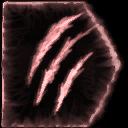
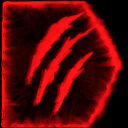
Brighter blood-red Captain flag; punkassbitches lines up every Chieftain look
Claude-Session: https://claude.ai/code/session_01Ja8vbkayn83DPTjJrhXLXZ

diff --git a/docs/PACK_README.md b/docs/PACK_README.md
@@ -105,7 +105,7 @@ UZDoom resolves every `#include` to the **last-loaded** file with that path.
 
 * **Place in maps:** use DoomEdNums **30200–30281** (table below), or the `HCE_Random*` spawners for a random variant of a character.
 * **Summon:** e.g. `summon HCE_EliteMajorPlasmaRifle`.
-* **Spawn everything:** the console command `punkassbitches` spawns one of every enemy class that's loaded (every pack and add-on), side by side in lines in front of you and facing you: 640 units of enemies per line, a line every 128 units. They don't patrol or walk to squad stations while idle, so they hold their place in the line until they see something to fight (flyers still hover). Spots blocked by walls are retried further ahead, then behind you, then anywhere free within 1024 units. Marines come out as allies. It's a console alias (`KEYCONF`) for `netevent hce_spawnall`, so it works in multiplayer too.
+* **Spawn everything:** the console command `punkassbitches` spawns one of every enemy class that's loaded (every pack and add-on), side by side in lines in front of you and facing you: 640 units of enemies per line, a line every 128 units. They don't patrol or walk to squad stations while idle, so they hold their place in the line until they see something to fight (flyers still hover). Spots blocked by walls are retried further ahead, then behind you, then anywhere free within 1024 units. Marines come out as allies. A class with several looks stands in the line once per look, so all three Brute Chieftains (Tartarus's look and both kit sets) appear. It's a console alias (`KEYCONF`) for `netevent hce_spawnall`, so it works in multiplayer too.
 * **Spawn every Marine:** `leatherneck` does the same with only the Marines: every Marine and Armored Marine class (each gun, both ranks) and Sergeants Johnson and Stacker, as allies, in the same lines. It's an alias for `netevent hce_spawnmarines`.
 * **Doom monsters are replaced automatically.** See the next section for what replaces what. To keep Doom's monsters, set `hce_keepdoommonsters 1`.
 
@@ -545,7 +545,7 @@ uzdoom -file HDE_LocalDEV.pk3 HCE_EnemyAPI_LocalDEV.pk3 HaloCE_Core.pk3 HaloCE_C
 |---|---|
 | `HCE_Drinol` | Map-placeable only (DoomEdNum 30400); it no longer replaces any Doom monster. Digsite's war beast (model, 76 animations and stats from its tags). Melee charger that swats and pounces with its `charging_jump`. In Halo it stands about 160 map units tall, so it is shrunk to 62% (99 tall, radius 34) to fit Doom corridors; health 320. Uses the new Drinol sounds from the voice pack: alert, melee, grave injury, death, extreme death, and sonic roar on the boss's charge. |
 | `HCE_BossCyberdemonDrinol` | **Boss: replaces every Cyberdemon** while the add-on is loaded. A bigger Drinol (78% scale, 110 tall, radius 40, health 1800) with three attacks. Its swats (~65) are slower than the small Drinol's. Its **charge** is a 22-speed stampede that steers a few degrees per tic, so you can side-step it; a hit does ~55 and bowls you over, and running into a wall staggers it. When it lands from a pounce it **slams** out a 260-unit shockwave that hurts and knocks back its enemies but spares its allies; jumping avoids it. It maps back to `Cyberdemon` (`CheckReplacee`), so boss-death map specials still fire. |
-| `HCE_Brute{Minor,Major,Captain,HonorGuard,Chieftain}…` | **Halo 2's Brutes**, ripped from MCC's `08b_deltacontrol.map` (voices from `08a_deltacliffs.map`): one 48-bone model with every rank's armour, 73 animations (including Tartarus's gravity-hammer stance), real textures, both voices (bloodthirsty and cruel) and their footsteps, thumps and body falls.<br>• **Ranks and loadouts** (looks from Halo 2's model variants, health from the rank tags; all hold their own guns in the rifle stance; a human gun they pick up goes in the rifle stance or, for the GPMG and flamethrower, Halo 2's Brute Shot stance):<br>&nbsp;&nbsp;– **Minor**: 175 health, olive fur, light armour (blue Halo 3 pieces, Halo 2's own helmet and shoulder plates, light King Hit pieces, sometimes bare-headed). Carries the **CE plasma rifle** (`HCE_BruteMinorPlasmaRifle`) or the **CE assault rifle** (`HCE_BruteMinorAssaultRifle`).<br>&nbsp;&nbsp;– **Major**: 150 health, reddish fur, medium armour (red Halo 3 pieces, King Hit crested and enclosed helmets; one in five wears the Halo 3 jump-pack suit). Carries the **Spiker** (`HCE_BruteMajorSpiker`), which fires HDE's own spikes in automatic bursts and drops HDE's Spiker, or the **CE shotgun** (`HCE_BruteMajorShotgun`), 15 pellets a shot.<br>&nbsp;&nbsp;– **Captain**: 200 health, grey fur, the flag pack with Halo 2's **hologram flag** flying from it (`brute_captain_flag.py`: the captain's claw-marked pennant from the cloth tag, in its shader's red, drawn bright and additive with a shimmer, rolling scan lines and a flicker; it moves with the body and stays on the corpse), and heavy armour (gold Halo 3 pieces, King Hit bighorn, heavy and chain-mail helmets, heavy chest plates and leg armour). Carries the CE plasma rifle, the CE shotgun or the **Plasma Caster** (`HCE_BruteCaptainPlasmaCaster`, 30453): HaloDoom Evolved's own (Halo Infinite's), reinterpreted as a low-poly Halo CE Covenant gun in flat colours (a muted dark purple housing and front pod, a dark gunmetal receiver, grip, stock and drum, a silver cone in the pod, cyan lights and a red Banished glyph), lobbing HDE's Plasma Caster shots with a charged three-shot cluster, and dropping HDE's Plasma Caster.<br>&nbsp;&nbsp;– **Honor Guard**: 150 health (Halo 2's Honor Guard inherits the Major's stats), the red ceremonial armour. Carries the CE plasma rifle or the CE assault rifle.<br>&nbsp;&nbsp;Each gun is the real model in the Brute's hand: the CE weapons and the Spiker (a community CE port of Halo 3's). Each drops its HDE pickup.<br>• **Brute Chieftain** (`HCE_BruteChieftainGravityHammer`), a custom rank:<br>&nbsp;&nbsp;– **Look:** half of them wear Tartarus's crested white mohawk and helmet, his grey fur and gold armour, and the elite-skull trophy pauldron. The rest wear one of two kit sets: the Halo 3 Chieftain suit (bronze) or the orange-trimmed King Hit chieftain helmet, leg and bracer set.<br>&nbsp;&nbsp;– **Weapon and animations:** Halo 2's gravity hammer, held two-handed with Tartarus's own hammer animations (idles, moves, three swings, two side smashes, leap, berserk hammer run and swings).<br>&nbsp;&nbsp;– **Stats:** 350 health and a 150-point shield (Tartarus's 1000-point overshield, cut down so it can be broken). It is melee only, with no grenades.<br>&nbsp;&nbsp;– **Attacks:** it leaps at targets 150–400 units away at Tartarus's 50% leap chance. Every hammer swing (about 70) and every leap landing sets off a **gravity shockwave**: HDE's hammer blast effect, 10–35 damage within 150 units, knocking things back and sparing other Covenant. It keeps the hammer when berserk and drops HDE's gravity hammer when killed.<br>• **Combat:** strafing, dives and evades, plasma grenades (10% a second, 3–20 unit range, 6 s apart, carrying 1–2, all from the tag), heavy melee (about 35), cheer, taunt and point animations.<br>• **Berserk:** when badly hurt, or when its pack is wiped out (the last Brute nearby always goes, others 35% of the time), it roars and thumps its chest, **throws its gun away** (the pickup lands nearby), then charges on all fours with five swings and two tackles.<br>• **Armour kit:** every Minor, Major and Captain rolls its own armour when it spawns, one piece (or nothing) per slot: helmet, chest, shoulders, arms, legs and waist. The pieces come from the h2_brute armour set: the King Hit pieces (four material tiers), Halo 3-style pieces tinted per rank, and Halo 2's own helmet, shoulder plates and bandolier. 48 pieces in all, each drawn as a model attachment that moves with the Brute's bones.<br>• **Helmets:** a headshot knocks a Minor's, Major's or Captain's helmet off, whichever helmet it wears, and it bounces away as debris. A Brute that spawned bare-headed can be headshot from the first hit. Honor Guard and Chieftain helmets stay on.<br>Scaled to 115%, so a Brute towers a head and more over an Elite (its rifle idle is 0.90 world units at full size against the Elite's 0.80), and moves a little faster to match its stride; collision 76 tall, radius 30, so they still fit Doom doors. DoomEdNums 30422–30430, `HCE_RandomBrute` 30431, the Plasma Caster Captain 30453. |
+| `HCE_Brute{Minor,Major,Captain,HonorGuard,Chieftain}…` | **Halo 2's Brutes**, ripped from MCC's `08b_deltacontrol.map` (voices from `08a_deltacliffs.map`): one 48-bone model with every rank's armour, 73 animations (including Tartarus's gravity-hammer stance), real textures, both voices (bloodthirsty and cruel) and their footsteps, thumps and body falls.<br>• **Ranks and loadouts** (looks from Halo 2's model variants, health from the rank tags; all hold their own guns in the rifle stance; a human gun they pick up goes in the rifle stance or, for the GPMG and flamethrower, Halo 2's Brute Shot stance):<br>&nbsp;&nbsp;– **Minor**: 175 health, olive fur, light armour (blue Halo 3 pieces, Halo 2's own helmet and shoulder plates, light King Hit pieces, sometimes bare-headed). Carries the **CE plasma rifle** (`HCE_BruteMinorPlasmaRifle`) or the **CE assault rifle** (`HCE_BruteMinorAssaultRifle`).<br>&nbsp;&nbsp;– **Major**: 150 health, reddish fur, medium armour (red Halo 3 pieces, King Hit crested and enclosed helmets; one in five wears the Halo 3 jump-pack suit). Carries the **Spiker** (`HCE_BruteMajorSpiker`), which fires HDE's own spikes in automatic bursts and drops HDE's Spiker, or the **CE shotgun** (`HCE_BruteMajorShotgun`), 15 pellets a shot.<br>&nbsp;&nbsp;– **Captain**: 200 health, grey fur, the flag pack with Halo 2's **hologram flag** flying from it (`brute_captain_flag.py`: the captain's claw-marked pennant from the cloth tag, in a bright blood red, drawn bright and additive with a shimmer, rolling scan lines and a flicker; it moves with the body and stays on the corpse), and heavy armour (gold Halo 3 pieces, King Hit bighorn, heavy and chain-mail helmets, heavy chest plates and leg armour). Carries the CE plasma rifle, the CE shotgun or the **Plasma Caster** (`HCE_BruteCaptainPlasmaCaster`, 30453): HaloDoom Evolved's own (Halo Infinite's), reinterpreted as a low-poly Halo CE Covenant gun in flat colours (a muted dark purple housing and front pod, a dark gunmetal receiver, grip, stock and drum, a silver cone in the pod, cyan lights and a red Banished glyph), lobbing HDE's Plasma Caster shots with a charged three-shot cluster, and dropping HDE's Plasma Caster.<br>&nbsp;&nbsp;– **Honor Guard**: 150 health (Halo 2's Honor Guard inherits the Major's stats), the red ceremonial armour. Carries the CE plasma rifle or the CE assault rifle.<br>&nbsp;&nbsp;Each gun is the real model in the Brute's hand: the CE weapons and the Spiker (a community CE port of Halo 3's). Each drops its HDE pickup.<br>• **Brute Chieftain** (`HCE_BruteChieftainGravityHammer`), a custom rank:<br>&nbsp;&nbsp;– **Look:** half of them wear Tartarus's crested white mohawk and helmet, his grey fur and gold armour, and the elite-skull trophy pauldron. The rest wear one of two kit sets: the Halo 3 Chieftain suit (bronze) or the orange-trimmed King Hit chieftain helmet, leg and bracer set.<br>&nbsp;&nbsp;– **Weapon and animations:** Halo 2's gravity hammer, held two-handed with Tartarus's own hammer animations (idles, moves, three swings, two side smashes, leap, berserk hammer run and swings).<br>&nbsp;&nbsp;– **Stats:** 350 health and a 150-point shield (Tartarus's 1000-point overshield, cut down so it can be broken). It is melee only, with no grenades.<br>&nbsp;&nbsp;– **Attacks:** it leaps at targets 150–400 units away at Tartarus's 50% leap chance. Every hammer swing (about 70) and every leap landing sets off a **gravity shockwave**: HDE's hammer blast effect, 10–35 damage within 150 units, knocking things back and sparing other Covenant. It keeps the hammer when berserk and drops HDE's gravity hammer when killed.<br>• **Combat:** strafing, dives and evades, plasma grenades (10% a second, 3–20 unit range, 6 s apart, carrying 1–2, all from the tag), heavy melee (about 35), cheer, taunt and point animations.<br>• **Berserk:** when badly hurt, or when its pack is wiped out (the last Brute nearby always goes, others 35% of the time), it roars and thumps its chest, **throws its gun away** (the pickup lands nearby), then charges on all fours with five swings and two tackles.<br>• **Armour kit:** every Minor, Major and Captain rolls its own armour when it spawns, one piece (or nothing) per slot: helmet, chest, shoulders, arms, legs and waist. The pieces come from the h2_brute armour set: the King Hit pieces (four material tiers), Halo 3-style pieces tinted per rank, and Halo 2's own helmet, shoulder plates and bandolier. 48 pieces in all, each drawn as a model attachment that moves with the Brute's bones.<br>• **Helmets:** a headshot knocks a Minor's, Major's or Captain's helmet off, whichever helmet it wears, and it bounces away as debris. A Brute that spawned bare-headed can be headshot from the first hit. Honor Guard and Chieftain helmets stay on.<br>Scaled to 115%, so a Brute towers a head and more over an Elite (its rifle idle is 0.90 world units at full size against the Elite's 0.80), and moves a little faster to match its stride; collision 76 tall, radius 30, so they still fit Doom doors. DoomEdNums 30422–30430, `HCE_RandomBrute` 30431, the Plasma Caster Captain 30453. |
 | `HCE_DronePlasmaPistol` | **Halo 2's Drone** (Yanme'e), ripped from MCC's `01b_spacestation.map` (Cairo Station): model, 32-bone skeleton, 36 animations (flight idle and four-way flight, wall perching, take-off/landing, fire, flinches, falling deaths) its real textures (from MCC's `textures.dat`, with the Drone shader's look baked in: the bump map's relief, the olive-green shell and its glossy olive-gold sheen, see-through wings) and 219 sounds: 149 dialogue lines from `sounds_en.dat`, plus its wing buzz, wing whooshes, wall-cling, claw and body-fall effects from `sounds_neutral.dat` (Halo 2 MCC stores them as raw Opus; the tools wrap them as Ogg). It holds a one-handed Covenant gun in its claw (see below), has 30 health and no shield (from its Halo 2 character tag), and is 48 tall with radius 22. Behaviour:<br>• **Darting flight:** swarm-style zig-zags above its target at changing heights, firing plasma pistol bursts.<br>• **Dodges:** when hit there's a 50% chance it darts sideways, at most every 4 s (its tag's evasion values).<br>• **Wall perching:** it flies to a nearby wall and clings with its back to it, firing from there (3–6 s in combat, 8–20 s when idle), and leaves early if you get within 96 units.<br>• **Swarm scatter:** when a drone dies, others within 400 units scatter in panic.<br>• **Falling death:** it falls out of the air and lands dead.<br>• **Sounds:** its wings buzz while it flies, it whooshes on dodges and darts, clicks when it grabs a wall, and thuds when it lands dead.<br>**Weapons:** the plasma pistol (`HCE_DronePlasmaPistol`, 30420), the **needler** (`HCE_DroneNeedler`, 30438), the CE **plasma rifle** (`HCE_DronePlasmaRifle`, 30439) and the **Spiker** (`HCE_DroneSpiker`, 30440), each dropping its HDE pickup. Cacodemons and Lost Souls become a mix of all four, mostly pistols and needlers; `HCE_RandomDrone` (30421) picks any. The antennae are cut out of their card by the shader's alpha, as Halo 2 draws them. |
 | `HCE_EliteUltraZealotEnergySword` | **Ultra Zealot** (new), Shigure's Zealot Elite on the Halo CE Elite (`extract_ultra_zealot.py`): the crested Zealot helmet and ornament, the Zealot torso and Reach-style arm plates, and a **diamond energy arm shield** on its left forearm, with Halo CE's energy sword in its right hand.<br>• **Colours:** Halo Reach's Field Marshal, pushed richer: a deep crimson-maroon armour over the teal undersuit, dark gauntlets, Reach-blue inset lights (drawn bright), and a blue shield animated like the Jackals' energy shields.<br>• **Stance:** it stands and walks like every sword Elite. Taking cover, and for two seconds after a bullet or bolt hits it, it raises its guard: SPV3's shield Elite's stance (the Elite Vanguard animations by Masterz1337 and Ruby of Blue, from a30), the shield arm held out in front as it stands, walks and crouches. Its melee, dives, evades and grenade throws are the shield Elite's.<br>• **Stats:** the gold sword Elite's build made tougher (130 body, 400 shield), sword charges and berserk as the sword Elites do. Severing its left arm takes the shield with it. Drops HDE's energy sword. DoomEdNum 30455, `HCE_RandomEliteZealot` 30432. |
 | `HCE_Engineer` | The Engineer from Halo CE Ruby's Rebalance, extracted from SPV3's b30 map (model, texture, 25 animations, health, dialogue). **Replaces every Pain Elemental** while the add-on is loaded; without it, Pain Elementals become Flood Carriers if the Flood pack is loaded. It carries **no weapon and never fights**: it treats nothing as an enemy, even whoever shoots it, and just drifts around, sometimes pausing in mid-air. It's a support unit rather than a combatant.<br>• **Overshields (Halo 3's Engineer ability):** every second it overshields the allies within 420 units that are fighting and in its sight, with a pink tether to each.<br>&nbsp;&nbsp;– Shielded allies are topped up 20% of their maximum a second, up to 1.5× their maximum.<br>&nbsp;&nbsp;– Unshielded allies (Grunts, Jackals, Hunters) get a small 40-point shield of their own (scaled by `hce_nerf_shields`).<br>&nbsp;&nbsp;– Out of its reach for 4 s, or when it dies, the gift goes away: overshields drop back to their maximum and given shields vanish.<br>&nbsp;&nbsp;– It drifts toward the fight, keeping 200–300 units from the ally it's shielding.<br>&nbsp;&nbsp;– In testing, a Grunt next to it got a 20-point shield and an Elite went to 60 of 50. **Kill the Engineer first.** It's still tough to pop (150 body plus a 200 recharging shield), and **when it dies it bursts and sprays 4–6 charged Plasma Caster shots** (HDE's `PlasmaCasterClusterProj`). Each one sticks to what it hits, arms for two seconds, then explodes and throws two mini-bolts, so don't kill it next to yourself. Its dialogue (idle, surprise, pain) and explosion sound come from the map. 70 tall, radius 26 (1.25× scale). Was `HCE_EngineerMajorPlasmaPistol`; same DoomEdNum, 30418. |
